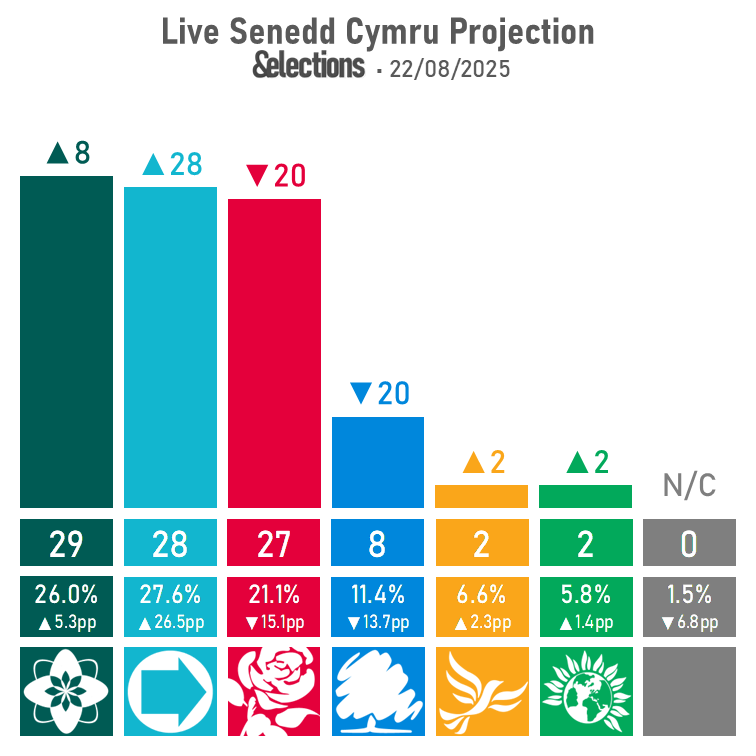
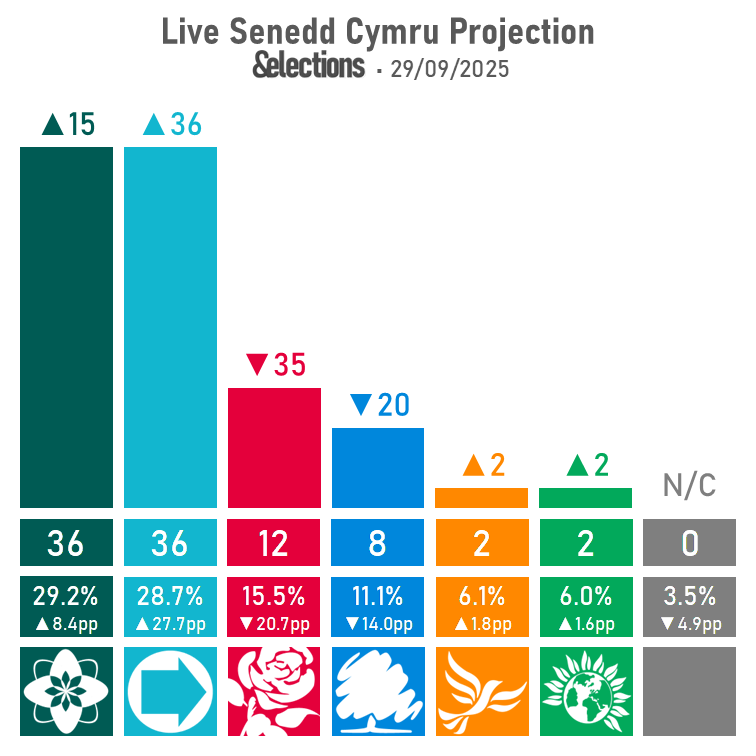
29/09/25 Senedd

diff --git a/senedd/index.html b/senedd/index.html
@@ -304,6 +304,10 @@
                     </div>
                     <div class="datacontainer" id="data-blog">
                         <div class="blogtitles-container">
+                            <a href="https://andelections.substack.com/p/290925-senedd-projection-labour-lagging" title="Open article in new tab" target="_blank" rel="noopener noreferrer">
+                                <h2>29/09/25 Senedd Projection: Labour Lagging Behind Plaid and Reform</h2>
+                                <p>29 Sep 2025 • A month on from &Elections' inaugural Senedd projection, and Plaid Cymru and Reform are still on the rise.</p>
+                            </a>
                             <a href="https://andelections.substack.com/p/220825-senedd-projection-plaid-and" title="Open article in new tab" target="_blank" rel="noopener noreferrer">
                                 <h2>22/08/25 Senedd Projection: Plaid & Reform Vying for the Most Seats</h2>
                                 <p>22 Aug 2025 • &Elections first projection for next year's Senedd election has Plaid Cymru and Reform neck-and-neck, ending Labour's stronghold on the legislature.</p>

diff --git a/index.html b/index.html
@@ -371,6 +371,10 @@
                     </div>
                     <div class="datacontainer" id="data-blog">
                         <div class="blogtitles-container">
+                            <a href="https://andelections.substack.com/p/290925-senedd-projection-labour-lagging" title="Open article in new tab" target="_blank" rel="noopener noreferrer">
+                                <h2>29/09/25 Senedd Projection: Labour Lagging Behind Plaid and Reform</h2>
+                                <p>29 Sep 2025 • A month on from &Elections' inaugural Senedd projection, and Plaid Cymru and Reform are still on the rise.</p>
+                            </a>
                             <a href="https://andelections.substack.com/p/250925-uk-projection-reforms-surge" title="Open article in new tab" target="_blank" rel="noopener noreferrer">
                                 <h2>25/09/25 UK Projection: Reform's Surge Settles While Tories Plunge Further</h2>
                                 <p>25 Sep 2025 • As Reform's forecast majority softens, this week's projection is &Elections' worst-ever for the Tories and best-ever for the Greens.</p>
